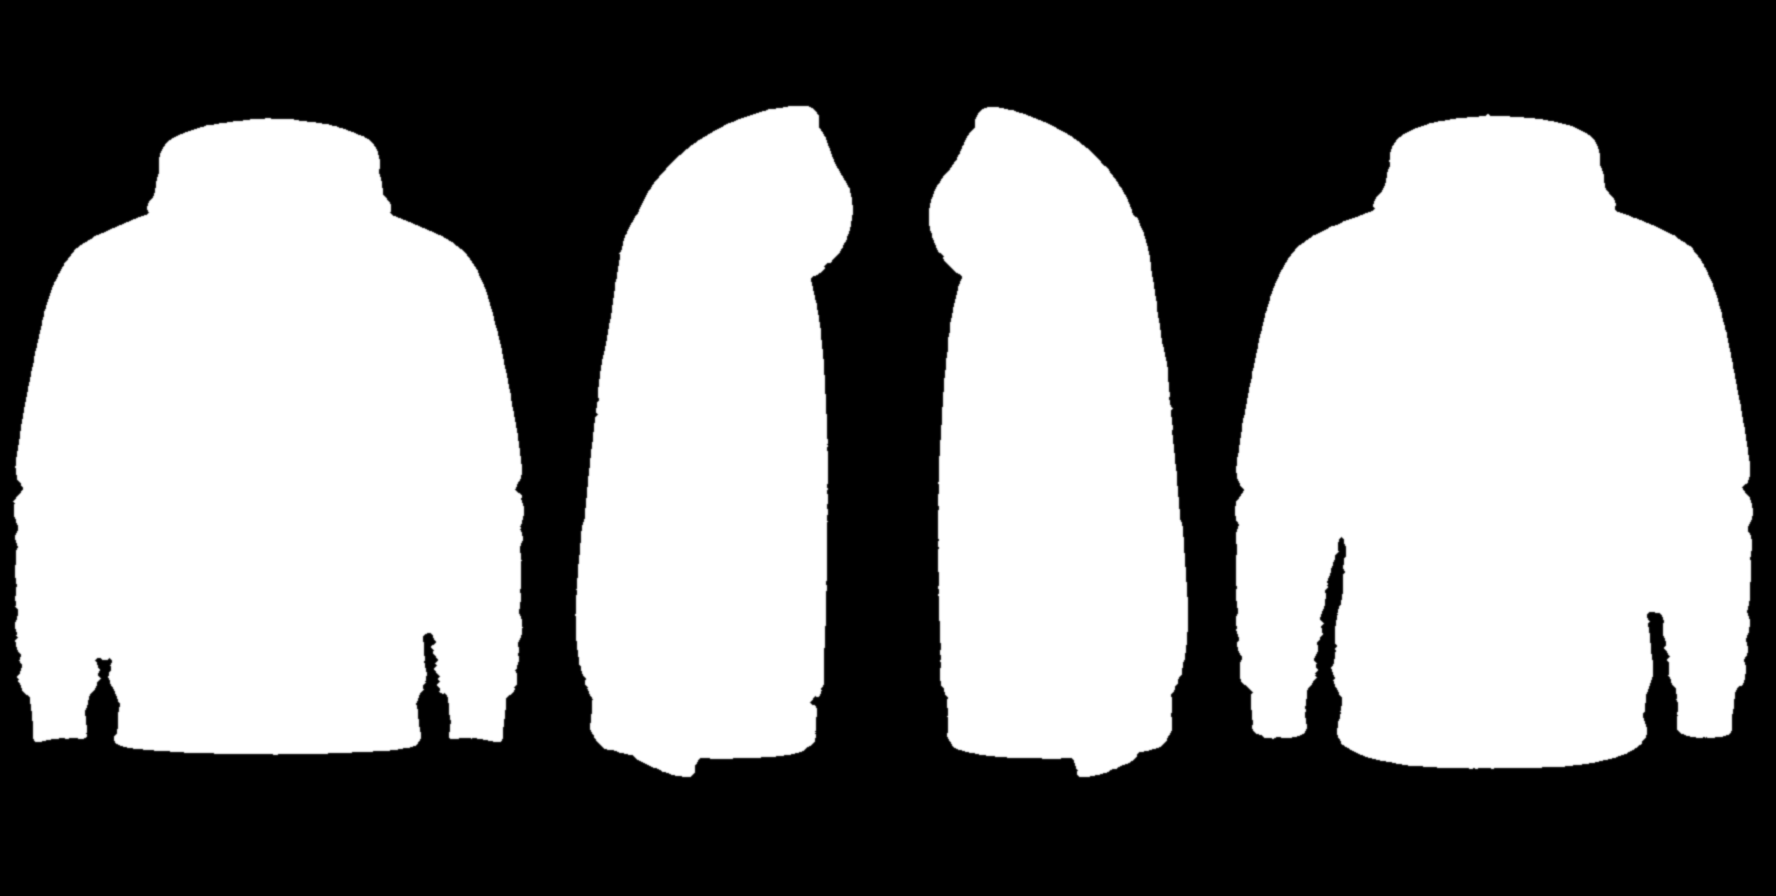
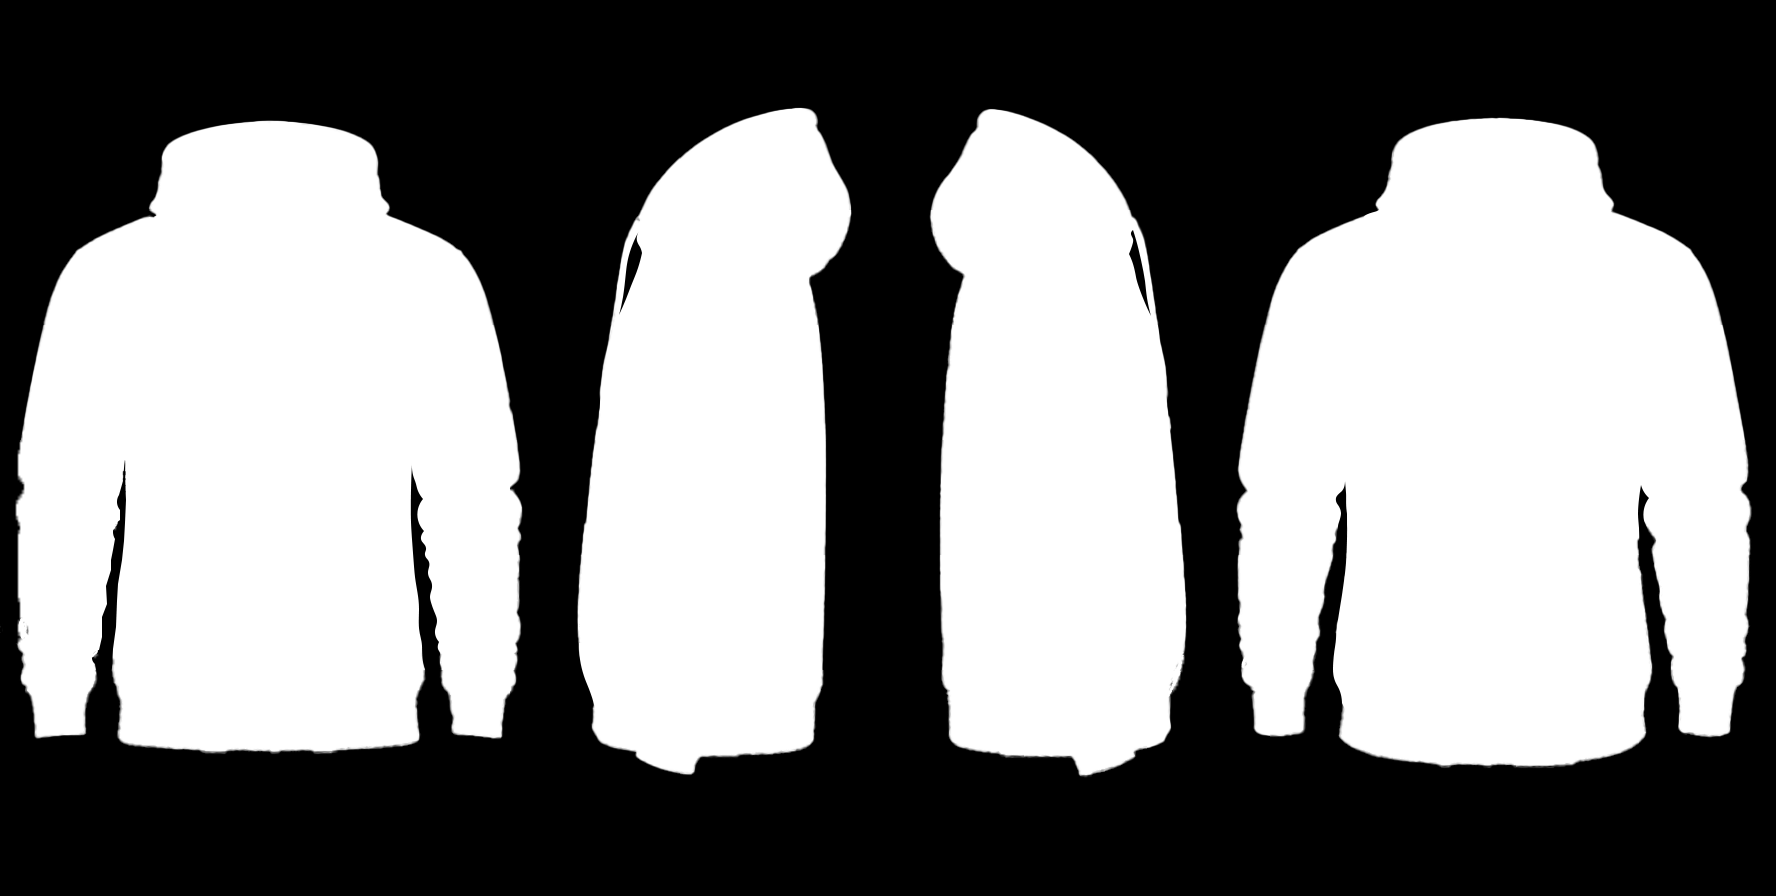
Konfigurator: neue freigestellte Fotos für Hoodie, Cap, Polo und Softshell [hochladen]
Claude-Session: https://claude.ai/code/session_01VgMNm2JQ5rEuMZ6iNr5NQ8

diff --git a/website/konfigurator/konfig.js b/website/konfigurator/konfig.js
@@ -63,7 +63,7 @@
   };
 
   /* ---------- Farben ---------- */
-  const IMGV = 2;   // bei neuen Produktfotos hochzählen (Browser-Zwischenspeicher)
+  const IMGV = 3;   // bei neuen Produktfotos hochzählen (Browser-Zwischenspeicher)
   const COLORS = {
     weiss: ['Weiß', 'Hvid', 'White', '#ffffff'], natur: ['Natur', 'Natur', 'Natural', '#efe6d2'], sand: ['Sand', 'Sand', 'Sand', '#d6c4a1'],
     grau: ['Grau meliert', 'Gråmeleret', 'Heather grey', '#a3a5a8'], anthrazit: ['Anthrazit', 'Antracit', 'Charcoal', '#3c3e42'], schwarz: ['Schwarz', 'Sort', 'Black', '#151515'],
